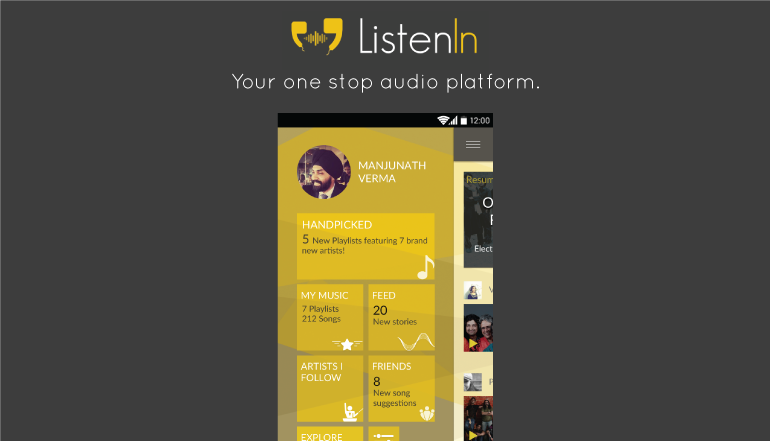
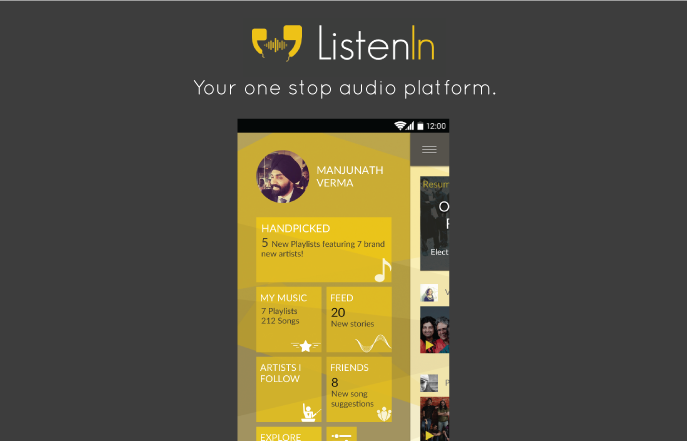
work page small

Changed region(s): [[0.2751, 0.1769, 0.7031, 1.0], [0.3668, 0.0295, 0.6419, 0.1474], [0.0, 0.0, 0.0306, 0.0295]]

diff --git a/works.html b/works.html
@@ -78,19 +78,19 @@
     </div>
     <div class="works-small">
       <div class="col-md-12">
-         <img style="width: 100%;" src="images/work/listenin-mobile.png">
+         <img style="width: 100%; margin-bottom: 30px;" src="images/work/listenin-mobile.png">
       </div>
       <div class="col-md-12">
-        <img style="width: 100%;" src="images/work/makeystreet.png">
+        <img style="width: 100%;  margin-bottom: 30px;" src="images/work/makeystreet-mobile.png">
       </div>
       <div class="col-md-12">
-        <img style="width: 100%;" src="images/work/zehntech.png">
+        <img style="width: 100%;  margin-bottom: 30px;" src="images/work/zehntech.png">
       </div>
       <div class="col-md-12">
-        <img style="width: 100%;" src="images/work/bhash.png">
+        <img style="width: 100%;  margin-bottom: 30px;" src="images/work/bhash.png">
       </div>
       <div class="col-md-12">
-        <img style="width: 100%;" src="images/work/specker.png">
+        <img style="width: 100%;  margin-bottom: 30px;" src="images/work/specker.png">
       </div>
     </div>
     <!-- jQuery (necessary for Bootstrap's JavaScript plugins) -->
